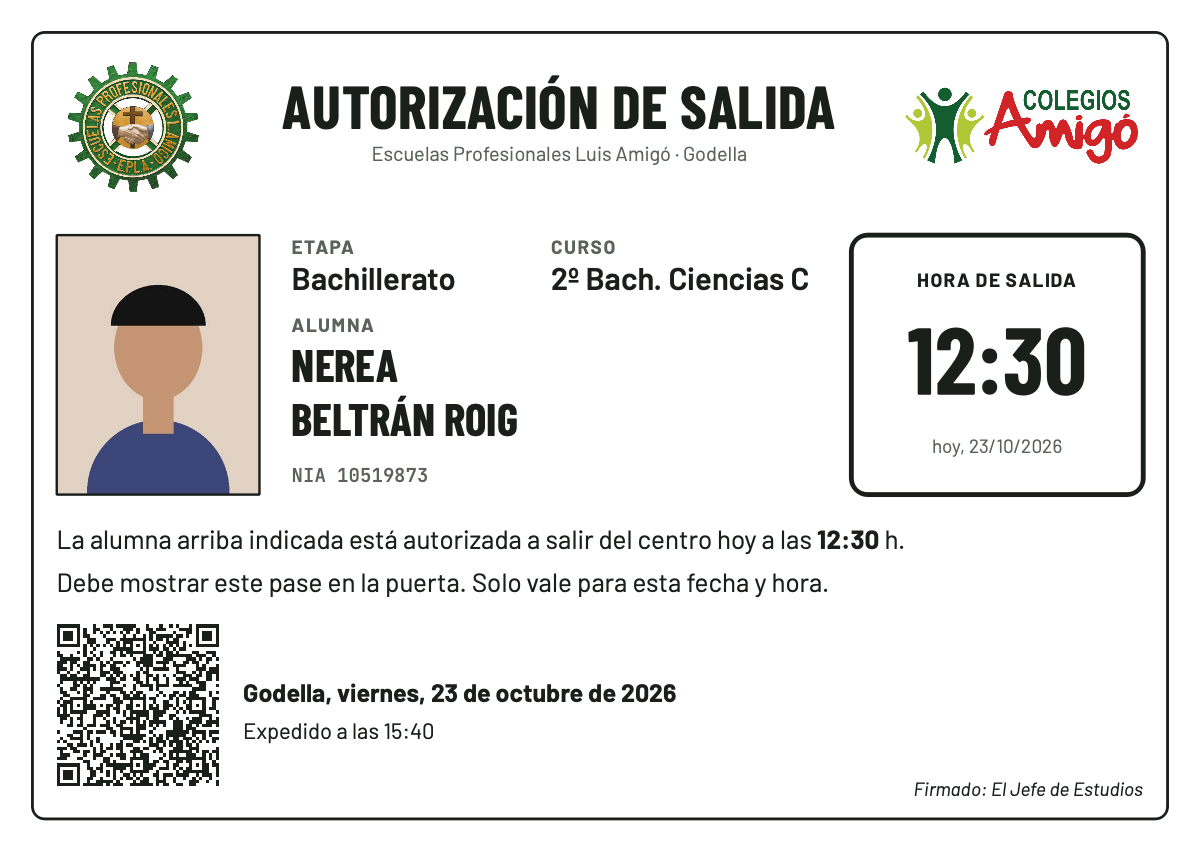
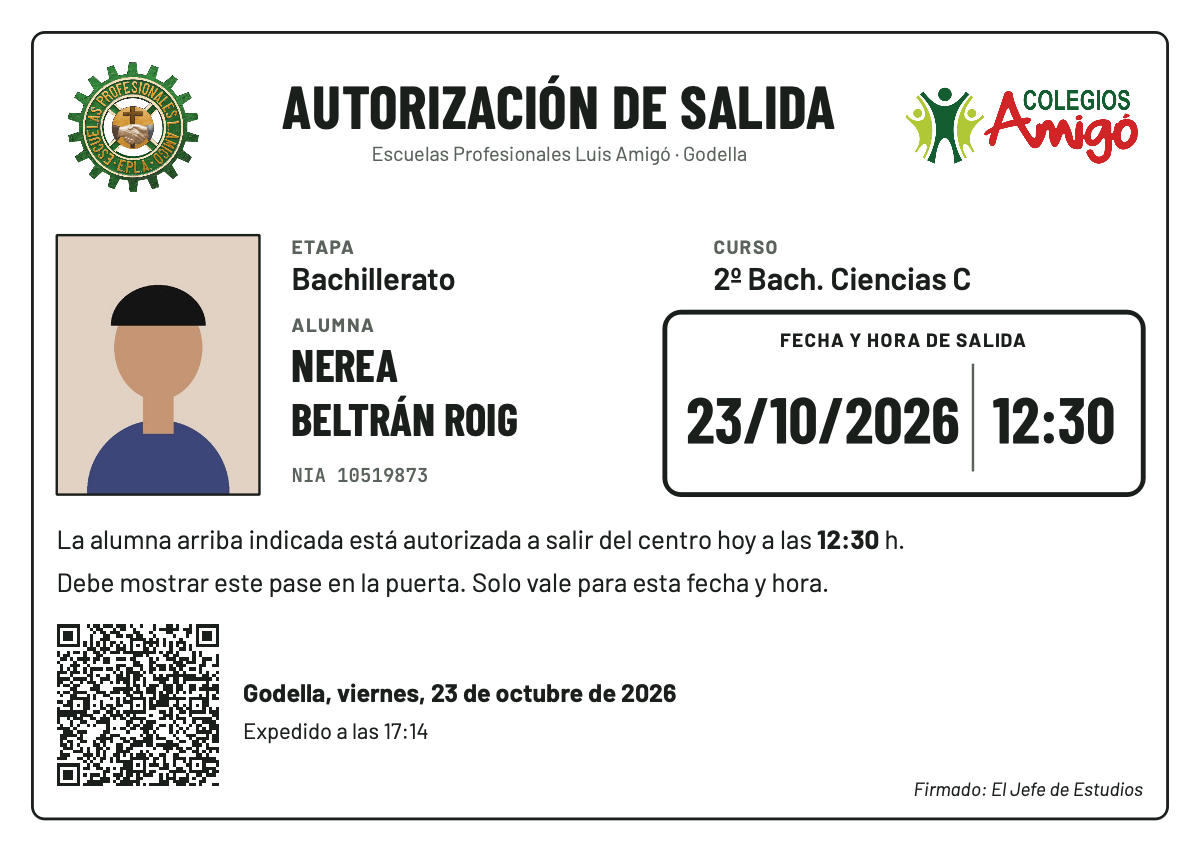
feat(parte): fecha y hora de salida igual de grandes en el recuadro, en las dos orientaciones (v1.5.0)

diff --git a/src/partes_salida/parte.py b/src/partes_salida/parte.py
@@ -214,9 +214,9 @@ class Maqueta:
     nia: tuple
     hora: tuple
     hora_etiqueta: tuple
+    fecha_valor: tuple
     hora_valor: tuple
     hora_mm: float
-    hora_fecha: tuple
     texto: tuple
     texto_mm: float
     qr: tuple
@@ -228,22 +228,23 @@ class Maqueta:
     cargo: tuple
 
 
-#: El diseño aprobado (2026-10-08): foto a la izquierda y hora en un recuadro a la derecha.
+#: Foto a la izquierda; etapa y curso en una fila y, bajo ella, el nombre y el recuadro con la fecha
+#: y la hora de salida, igual de grandes (CarlosFB, 2026-10-23).
 HORIZONTAL = Maqueta(
     ancho=148, alto=105,
     logo_izq=(7, 6.5, 19, 19), logo_der=(111, 7.5, 30, 16),
     titulo=(29, 8.5, 80, 9), titulo_mm=7.4, centro=(29, 17.4, 80, 4),
     foto=(7, 29, 25, 32),
-    etapa=(36, 29, 30, 8), curso=(68, 29, 34, 8), alumno=(36, 38.6, 40, 3), nombre=(36, 41.6, 66, 14),
-    nia=(36, 57, 66, 3.5),
-    hora=(105, 29, 36, 32), hora_etiqueta=(105, 33, 36, 3), hora_valor=(106, 37, 34, 14), hora_mm=13,
-    hora_fecha=(105, 53.5, 36, 3.5),
+    etapa=(36, 29, 50, 8), curso=(88, 29, 53, 8), alumno=(36, 38.6, 44, 3), nombre=(36, 41.6, 44, 14),
+    nia=(36, 57, 44, 3.5),
+    hora=(82, 38.5, 59, 22.5), hora_etiqueta=(82, 40.5, 59, 3), fecha_valor=(84, 44, 35, 15),
+    hora_valor=(121, 44, 18, 15), hora_mm=8,
     texto=(7, 64.5, 134, 12), texto_mm=3.15,
     qr=(7, 77, 20, 20), lugar=(30, 83.5, 78, 5), lugar_ajusta=False, expedido=(30, 88.4, 78, 4),
     sello=(117, 70, 25, 25), firma=(110, 78, 27, 15), cargo=(90, 95.8, 51, 3.5),
 )
 
-#: Misma información en 105 × 148 mm: la hora pasa a una franja a todo el ancho.
+#: Misma información en 105 × 148 mm: la fecha y la hora van en una franja a todo el ancho.
 VERTICAL = Maqueta(
     ancho=105, alto=148,
     logo_izq=(7, 7, 17, 17), logo_der=(70, 9, 28, 13),
@@ -251,8 +252,8 @@ VERTICAL = Maqueta(
     foto=(7, 42, 26, 33),
     etapa=(37, 42, 61, 8), curso=(37, 51, 61, 8), alumno=(37, 60, 61, 3), nombre=(37, 63, 61, 10),
     nia=(37, 73, 61, 3.5),
-    hora=(7, 79, 91, 22), hora_etiqueta=(7, 81, 91, 3), hora_valor=(8, 84, 89, 12), hora_mm=11.5,
-    hora_fecha=(7, 96.5, 91, 3.5),
+    hora=(7, 79, 91, 22), hora_etiqueta=(7, 81, 91, 3), fecha_valor=(9, 84.5, 51, 14),
+    hora_valor=(62, 84.5, 34, 14), hora_mm=11.5,
     texto=(7, 103.5, 91, 14), texto_mm=2.8,
     qr=(7, 121, 20, 20), lugar=(30, 122, 40, 8), lugar_ajusta=True, expedido=(30, 130.5, 40, 4),
     sello=(74, 117, 24, 22), firma=(67, 124, 26, 12), cargo=(40, 139.5, 58, 3.5),
@@ -336,14 +337,17 @@ def dibujar_parte(
     if al.nia:
         lz.texto(lz.r(*m.nia), f"NIA {al.nia}", lz.fuente(MONO, 2.4, B.Medium), suave, IZQ | UNA)
 
-    # Hora de salida
+    # Fecha y hora de salida: igual de grandes, la fecha a la izquierda y la hora a la derecha
     p.setPen(QPen(tinta, 0.6 * escala))
     p.drawRoundedRect(lz.r(*m.hora), 2 * escala, 2 * escala)
-    lz.texto(lz.r(*m.hora_etiqueta), "HORA DE SALIDA", etiqueta, tinta, ARRIBA_CENTRO | UNA)
-    lz.texto(lz.r(*m.hora_valor), f"{datos.salida:%H:%M}", lz.fuente(TITULAR, m.hora_mm, B.ExtraBold), tinta,
-             CENTRO | UNA)
-    lz.texto(lz.r(*m.hora_fecha), f"hoy, {fecha_corta(datos.salida.date())}", lz.fuente(CUERPO, 2.4, B.Normal),
-             suave, ARRIBA_CENTRO | UNA)
+    lz.texto(lz.r(*m.hora_etiqueta), "FECHA Y HORA DE SALIDA", etiqueta, tinta, ARRIBA_CENTRO | UNA)
+    grande = lz.fuente(TITULAR, m.hora_mm, B.ExtraBold)
+    lz.texto(lz.r(*m.fecha_valor), fecha_corta(datos.salida.date()), grande, tinta, CENTRO | UNA)
+    lz.texto(lz.r(*m.hora_valor), f"{datos.salida:%H:%M}", grande, tinta, CENTRO | UNA)
+    fx, fy, fw, fh = m.fecha_valor
+    medio = (fx + fw + m.hora_valor[0]) / 2
+    p.setPen(QPen(suave, 0.3 * escala))
+    p.drawLine(lz.r(medio, fy + 1, 0, 0).topLeft(), lz.r(medio, fy + fh - 1, 0, 0).topLeft())
 
     # Texto de autorización
     x, y, w, h = m.texto

diff --git a/tests/test_ajustes_y_parte.py b/tests/test_ajustes_y_parte.py
@@ -159,6 +159,32 @@ def test_maquetas_caben_en_su_papel():
             assert x >= 4 and x + w <= m.ancho - 4 and y >= 4 and y + h <= m.alto - 4, (m.ancho, nombre)
 
 
+def test_fecha_y_hora_de_salida_caben_igual_de_grandes_en_su_recuadro(qapp):
+    """La fecha a la izquierda y la hora a la derecha, al mismo tamaño y dentro del recuadro (CarlosFB, 2026-10-23)."""
+    from PyQt6.QtCore import QPointF
+    from PyQt6.QtGui import QFont, QFontMetricsF, QImage, QPainter
+
+    from partes_salida.parte import HORIZONTAL, VERTICAL, _Lienzo
+    from partes_salida.ui import estilo
+
+    estilo.cargar_fuentes()
+    img = QImage(2000, 100, QImage.Format.Format_RGB32)
+    p = QPainter(img)
+    try:
+        for m in (HORIZONTAL, VERTICAL):
+            lz = _Lienzo(p, 10, QPointF())
+            grande = lz.fuente(estilo.TITULAR, m.hora_mm, QFont.Weight.ExtraBold)
+            hx, hy, hw, hh = m.hora
+            fx, fy, fw, fh = m.fecha_valor
+            vx, vy, vw, vh = m.hora_valor
+            assert hx < fx < fx + fw < vx < vx + vw < hx + hw and hy < fy and fy + fh < hy + hh, m.ancho
+            assert fy == vy and fh == vh, m.ancho
+            for texto, ancho in (("23/10/2026", fw), ("19:30", vw)):
+                assert QFontMetricsF(grande, img).horizontalAdvance(texto) / 10 <= ancho, (m.ancho, texto)
+    finally:
+        p.end()
+
+
 def test_la_impresora_recibe_la_orientacion(qapp, datos, tmp_path):
     from PyQt6.QtGui import QPageLayout
     from PyQt6.QtPrintSupport import QPrinter

diff --git a/src/partes_salida/__init__.py b/src/partes_salida/__init__.py
@@ -1,4 +1,4 @@
 """Partes de salida: imprime el pase de salida del alumnado en DIN-A6."""
 
-__version__ = "1.4.3"
+__version__ = "1.5.0"
 NOMBRE_APP = "Partes de salida"

diff --git a/DESIGN.md b/DESIGN.md
@@ -110,8 +110,9 @@ Botón dorado (`gold`, texto blanco) «↑ Actualizar a X.Y.Z» en la barra supe
 | Logo izquierdo / derecho | (7, 6.5) 19×19 · (111, 7.5) 30×16 | proporción respetada |
 | Título | centrado 29–109, y 8.5 | Barlow Condensed ExtraBold 7,4 mm, encoge si no cabe |
 | Foto | (7, 29) 25×32 | recorte centrado, borde 0,3 |
-| Etapa · curso · alumno/a · NIA | x 36, y 29–60 | etiquetas 2,3 mm; nombre condensado 5,6 mm, dos líneas |
-| Hora de salida | caja (105, 29) 36×32 | 13 mm ExtraBold; «hoy, dd/mm/aaaa» |
+| Etapa · curso | fila (36, 29) a (141, 37) | etiquetas 2,3 mm; valores 3,8 mm |
+| Alumno/a · NIA | x 36, y 38.6–60.5, 44 de ancho | nombre condensado 5,6 mm, dos líneas (encoge si no cabe) |
+| Fecha y hora de salida | caja (82, 38.5) 59×22.5 | rótulo «FECHA Y HORA DE SALIDA»; fecha (dd/mm/aaaa) a la izquierda y hora a la derecha, las dos en 8 mm ExtraBold, con una raya fina en medio |
 | Texto | (7, 64.5) 134 de ancho | 3,15 mm, dos líneas, hora en negrita, género según SEXO |
 | QR | (7, 77) 20×20 | Ed25519, corrección M |
 | Lugar y fecha · expedición | (30, 83.5) | 3,1 mm negrita · 2,7 mm |
@@ -120,7 +121,7 @@ Botón dorado (`gold`, texto blanco) «↑ Actualizar a X.Y.Z» en la barra supe
 
 ### Parte vertical (105 × 148 mm)
 
-Mismo contenido y tipografía. Logos arriba (escudo 17 × 17 a la izquierda, Colegios Amigó 28 × 13 a la derecha), título a todo el ancho (6,6 mm) en y 27, foto 26 × 33 a la izquierda con etapa, curso, alumno/a y NIA apilados a su derecha, **franja de la hora** a todo el ancho (91 × 22, hora de 11,5 mm), texto de 2,8 mm, y pie con QR, lugar y fecha (en dos líneas) y sello y firma a la derecha. Las dos maquetas están en `parte.py` (`HORIZONTAL`, `VERTICAL`) y un test comprueba que todo cabe dentro del marco. Capturas: `docs/capturas/parte-horizontal.png` y `parte-vertical.png`.
+Mismo contenido y tipografía; el recuadro de fecha y hora es el mismo que en horizontal, más grande (CarlosFB, 2026-10-23). Logos arriba (escudo 17 × 17 a la izquierda, Colegios Amigó 28 × 13 a la derecha), título a todo el ancho (6,6 mm) en y 27, foto 26 × 33 a la izquierda con etapa, curso, alumno/a y NIA apilados a su derecha, **franja de la fecha y la hora** a todo el ancho (91 × 22: fecha a la izquierda y hora a la derecha, las dos de 11,5 mm), texto de 2,8 mm, y pie con QR, lugar y fecha (en dos líneas) y sello y firma a la derecha. Las dos maquetas están en `parte.py` (`HORIZONTAL`, `VERTICAL`) y un test comprueba que todo cabe dentro del marco. Capturas: `docs/capturas/parte-horizontal.png` y `parte-vertical.png`.
 
 ## Correo a la familia y al alumno
 

diff --git a/CHANGELOG.md b/CHANGELOG.md
@@ -2,6 +2,12 @@
 
 Formato [Keep a Changelog](https://keepachangelog.com/es-ES/1.1.0/) y [SemVer](https://semver.org/lang/es/). La entrada de cada versión es también la nota de su release en GitHub. Lo más reciente arriba.
 
+## [1.5.0] - 2026-10-23
+
+### Cambiado
+
+- **Fecha y hora de salida, igual de grandes en el parte.** El recuadro dice «FECHA Y HORA DE SALIDA» y lleva la fecha a la izquierda y la hora a la derecha, al mismo tamaño; desaparece la línea pequeña «hoy, dd/mm/aaaa». En el parte vertical es la franja a todo el ancho; en el horizontal, etapa y curso pasan a una fila arriba y el recuadro, más ancho, queda junto al nombre.
+
 ## [1.4.3] - 2026-10-23
 
 ### Corregido
